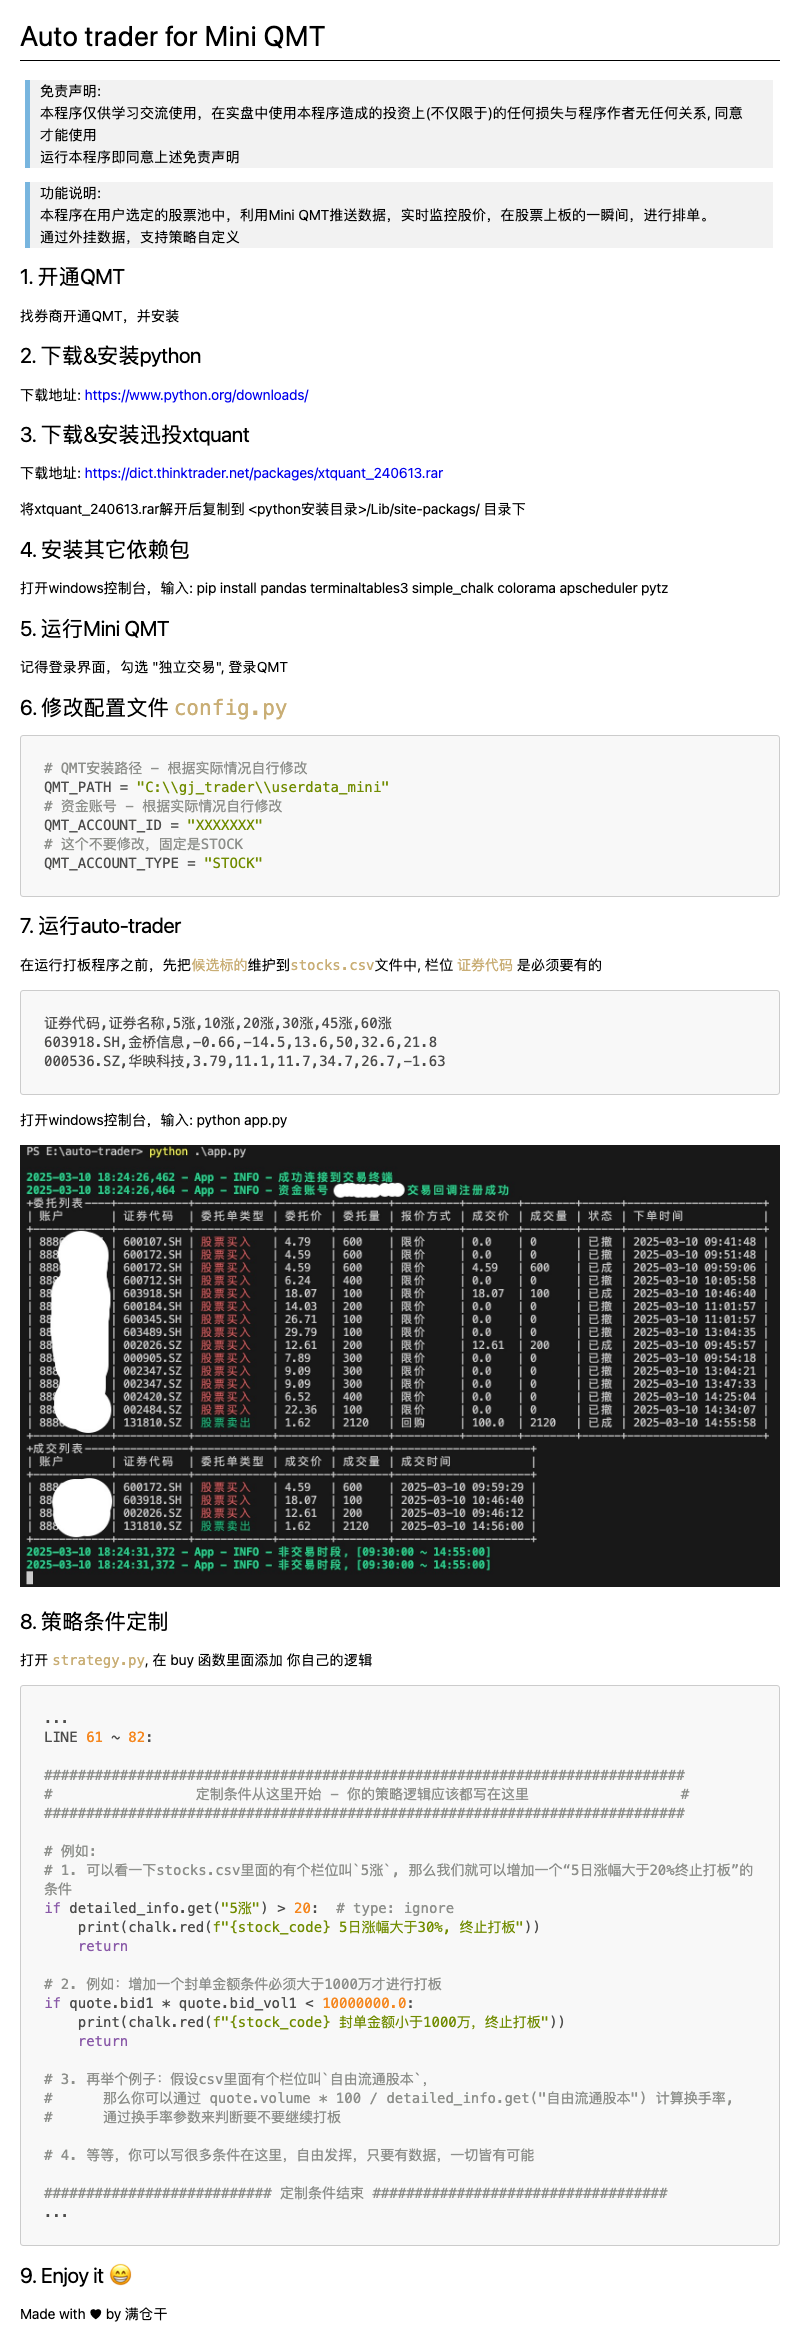
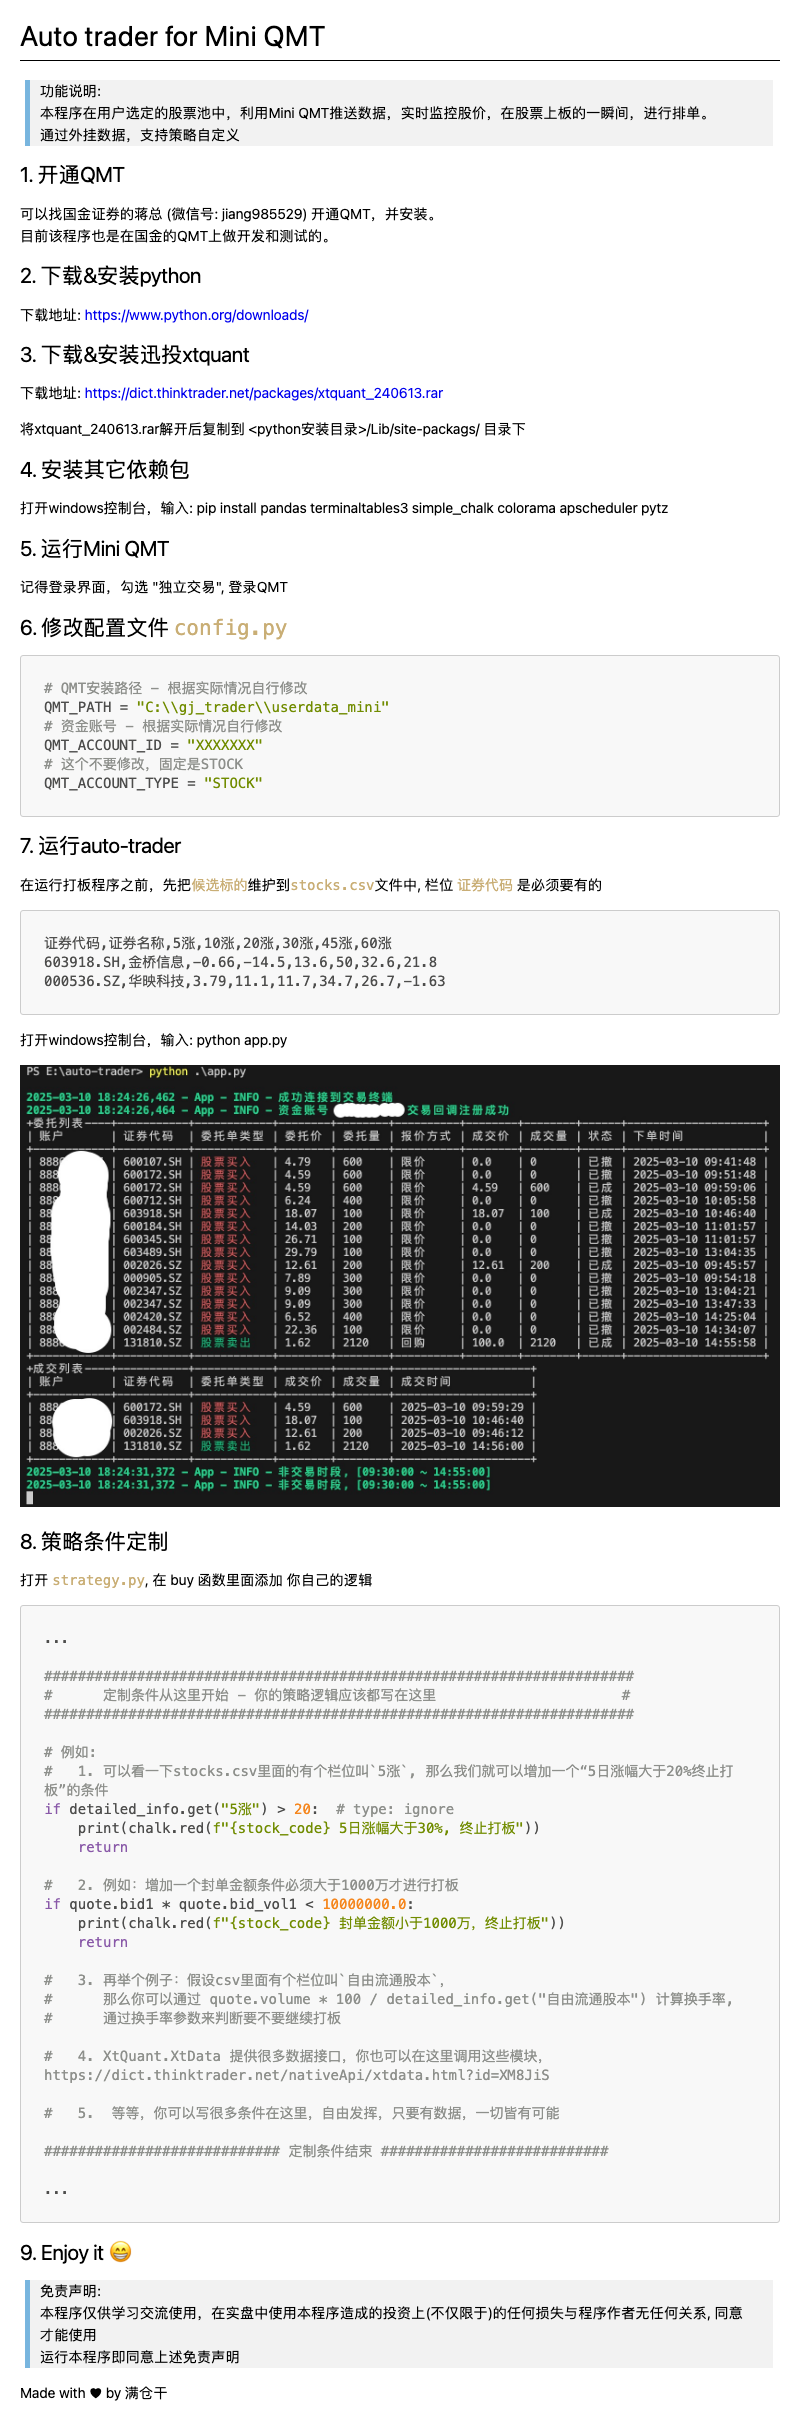
.

diff --git a/strategy.py b/strategy.py
@@ -63,9 +63,9 @@ def buy(quote: Optional[QuoteOnline]) -> None:
             last_close * (1 + rise_limit), 2
         ) and quote.ask_vol1 == 0:
 
-            ###########################################################################################################
-            #                        定制条件从这里开始 - 你的策略逻辑应该都写在这里                                         #
-            ###########################################################################################################
+            ######################################################################
+            #      定制条件从这里开始 - 你的策略逻辑应该都写在这里                      #
+            ######################################################################
 
             # 例如:
             #   1. 可以看一下stocks.csv里面的有个栏位叫`5涨`, 那么我们就可以增加一个“5日涨幅大于20%终止打板”的条件
@@ -86,7 +86,7 @@ def buy(quote: Optional[QuoteOnline]) -> None:
 
             #   5.  等等，你可以写很多条件在这里，自由发挥，只要有数据，一切皆有可能
 
-            ############################################## 定制条件结束 ##############################################
+            ############################ 定制条件结束 ###########################
 
             # 看一下账户余额，是不是资金充足
             account_info = trader.query_asset()

diff --git a/README.md b/README.md
@@ -58,30 +58,33 @@ QMT_ACCOUNT_TYPE = "STOCK"
 
 ```py
 ...
-LINE 61 ~ 82:
 
-############################################################################
-#                 定制条件从这里开始 - 你的策略逻辑应该都写在这里                  #
-############################################################################
+######################################################################
+#      定制条件从这里开始 - 你的策略逻辑应该都写在这里                      #
+######################################################################
 
 # 例如:
-# 1. 可以看一下stocks.csv里面的有个栏位叫`5涨`, 那么我们就可以增加一个“5日涨幅大于20%终止打板”的条件
+#   1. 可以看一下stocks.csv里面的有个栏位叫`5涨`, 那么我们就可以增加一个“5日涨幅大于20%终止打板”的条件
 if detailed_info.get("5涨") > 20:  # type: ignore
     print(chalk.red(f"{stock_code} 5日涨幅大于30%, 终止打板"))
     return
 
-# 2. 例如：增加一个封单金额条件必须大于1000万才进行打板
+#   2. 例如：增加一个封单金额条件必须大于1000万才进行打板
 if quote.bid1 * quote.bid_vol1 < 10000000.0:
     print(chalk.red(f"{stock_code} 封单金额小于1000万，终止打板"))
     return
 
-# 3. 再举个例子：假设csv里面有个栏位叫`自由流通股本`，
+#   3. 再举个例子：假设csv里面有个栏位叫`自由流通股本`，
 #      那么你可以通过 quote.volume * 100 / detailed_info.get("自由流通股本") 计算换手率,
 #      通过换手率参数来判断要不要继续打板
 
-# 4. 等等，你可以写很多条件在这里，自由发挥，只要有数据，一切皆有可能
+#   4. XtQuant.XtData 提供很多数据接口，你也可以在这里调用这些模块，计算各种指标用于辅助判断
+#      https://dict.thinktrader.net/nativeApi/xtdata.html?id=XM8JiS
 
-########################### 定制条件结束 ###################################
+#   5.  等等，你可以写很多条件在这里，自由发挥，只要有数据，一切皆有可能
+
+############################ 定制条件结束 ###########################
+
 ...
 ```
 
